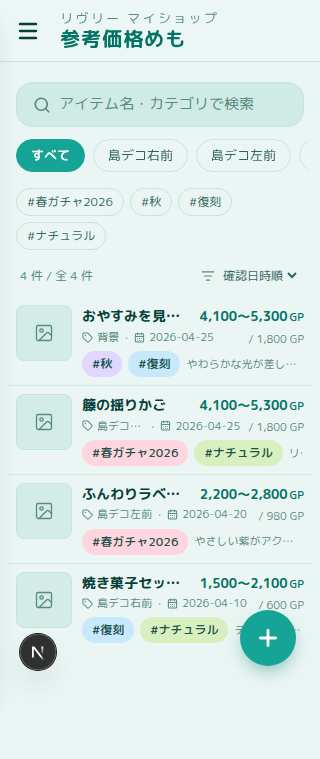
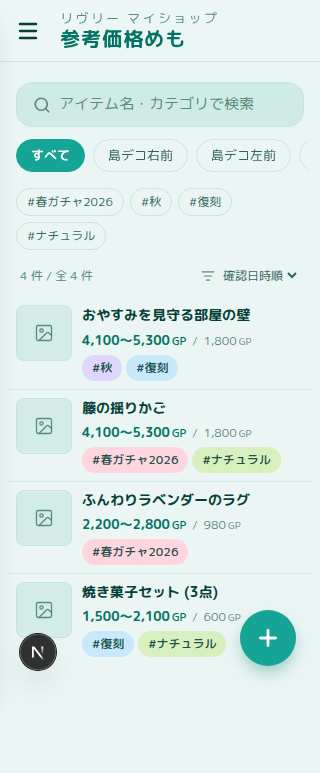
Trim home rows to name / price / tags only
Drops the category and date lines from each row so the item name can
wrap to its full text on one logical line, with the price line and tag
chips below. Category and confirmation date will live on the upcoming
item detail page.

https://claude.ai/code/session_01QfKFPG59Pejpqns5ZAaJf6

diff --git a/src/components/ItemCard.tsx b/src/components/ItemCard.tsx
@@ -2,17 +2,10 @@
 
 import Link from "next/link";
 import { useEffect, useState } from "react";
-import { ImageIcon, Tag as TagIcon, CalendarDays } from "lucide-react";
+import { ImageIcon } from "lucide-react";
 import type { Item, Tag } from "@/lib/db";
 import { formatPrice } from "@/lib/utils/parsePrice";
 import TagChip from "./TagChip";
-
-function formatDate(ms: number): string {
-  const d = new Date(ms);
-  const m = String(d.getMonth() + 1).padStart(2, "0");
-  const day = String(d.getDate()).padStart(2, "0");
-  return `${d.getFullYear()}-${m}-${day}`;
-}
 
 export default function ItemCard({
   item,
@@ -51,46 +44,25 @@ export default function ItemCard({
         )}
       </div>
       <div className="min-w-0 flex-1">
-        <div className="flex items-baseline justify-between gap-2">
-          <h3 className="font-bold text-[14px] text-text truncate">
-            {item.name || "(名称未設定)"}
-          </h3>
-          <span className="shrink-0 font-bold text-[13px] text-gold-deep whitespace-nowrap tabular-nums">
+        <h3 className="font-bold text-[14px] text-text leading-snug break-words">
+          {item.name || "(名称未設定)"}
+        </h3>
+        <div className="mt-0.5 whitespace-nowrap">
+          <span className="font-bold text-[13px] text-gold-deep tabular-nums">
             {formatPrice(item.refPriceMin)}〜{formatPrice(item.refPriceMax)}
             <span className="text-[11px] font-medium ml-0.5">GP</span>
           </span>
-        </div>
-        <div className="flex items-baseline justify-between gap-2 text-[11px] mt-0.5">
-          <div className="text-muted truncate flex items-center gap-1">
-            {item.category && (
-              <>
-                <TagIcon size={11} strokeWidth={2.2} className="shrink-0" />
-                <span className="truncate">{item.category}</span>
-                <span className="mx-0.5">·</span>
-              </>
-            )}
-            <CalendarDays size={11} strokeWidth={2.2} className="shrink-0" />
-            <span className="whitespace-nowrap">{formatDate(item.checkedAt)}</span>
-          </div>
-          <span className="shrink-0 text-text/65 tabular-nums whitespace-nowrap">
-            / {formatPrice(item.minPrice)} GP
+          <span className="text-muted mx-1.5 text-[11px]">/</span>
+          <span className="text-[12px] text-text/65 tabular-nums">
+            {formatPrice(item.minPrice)}
+            <span className="text-[10px] ml-0.5">GP</span>
           </span>
         </div>
-        {(itemTags.length > 0 || item.description) && (
-          <div className="flex items-center gap-1.5 mt-1 min-w-0">
-            {itemTags.slice(0, 3).map((t) => (
+        {itemTags.length > 0 && (
+          <div className="flex items-center flex-wrap gap-1 mt-1">
+            {itemTags.map((t) => (
               <TagChip key={t.id} tag={t} />
             ))}
-            {itemTags.length > 3 && (
-              <span className="text-[10px] text-muted shrink-0">
-                +{itemTags.length - 3}
-              </span>
-            )}
-            {item.description && (
-              <span className="text-[11px] text-muted truncate min-w-0">
-                {item.description}
-              </span>
-            )}
           </div>
         )}
       </div>
